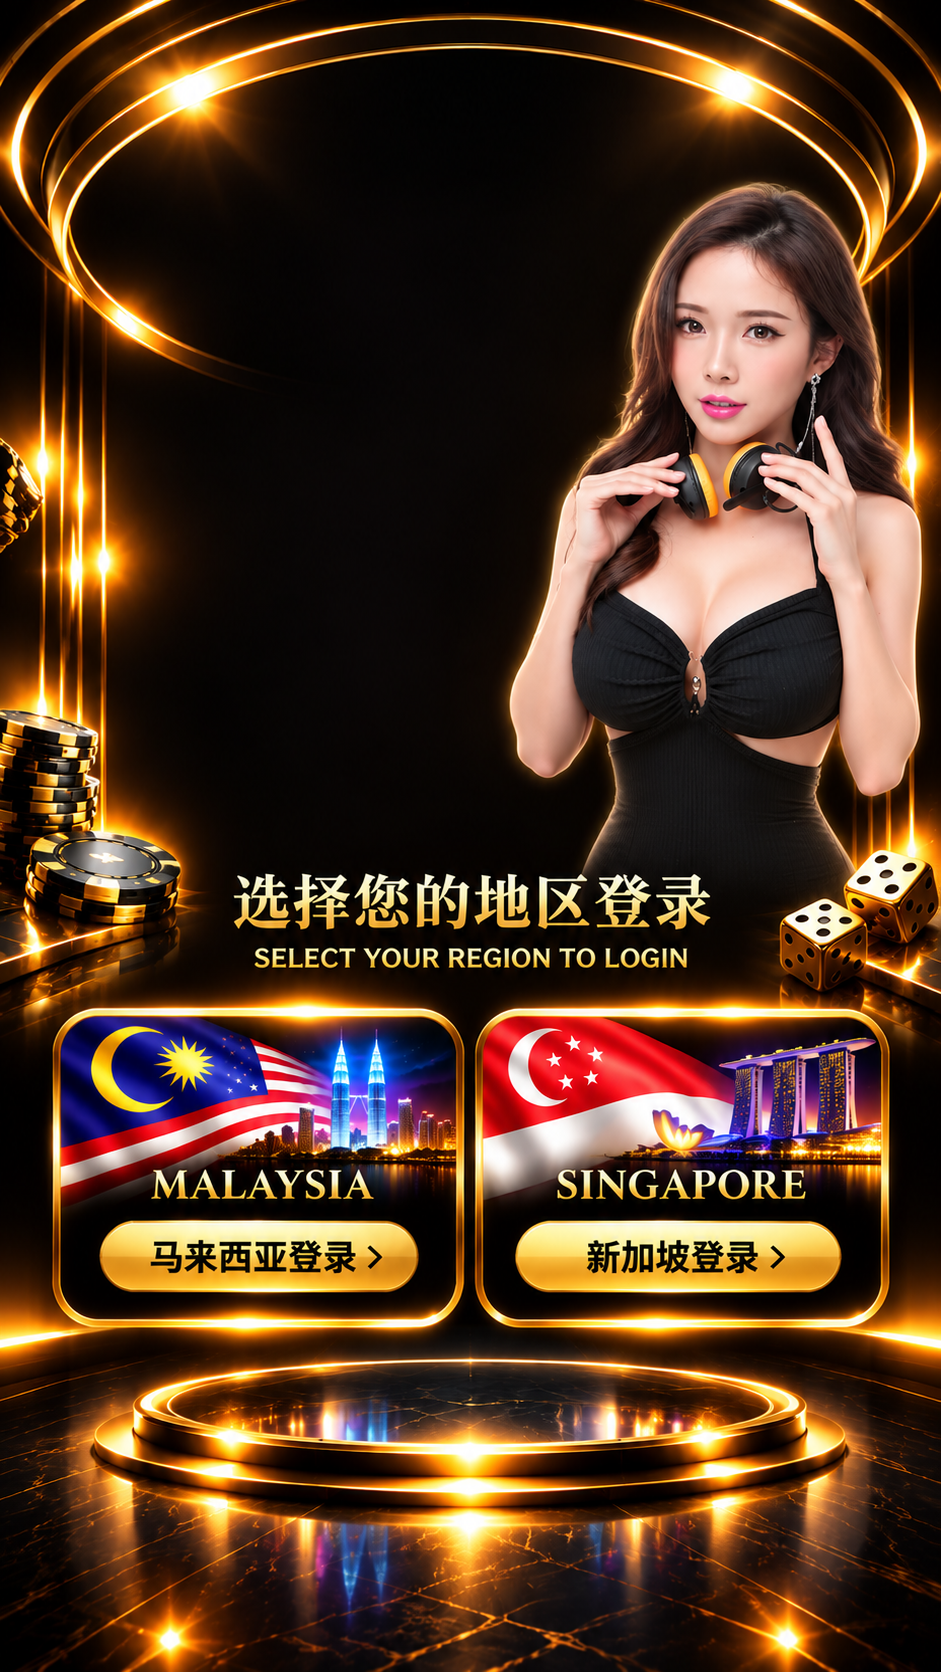
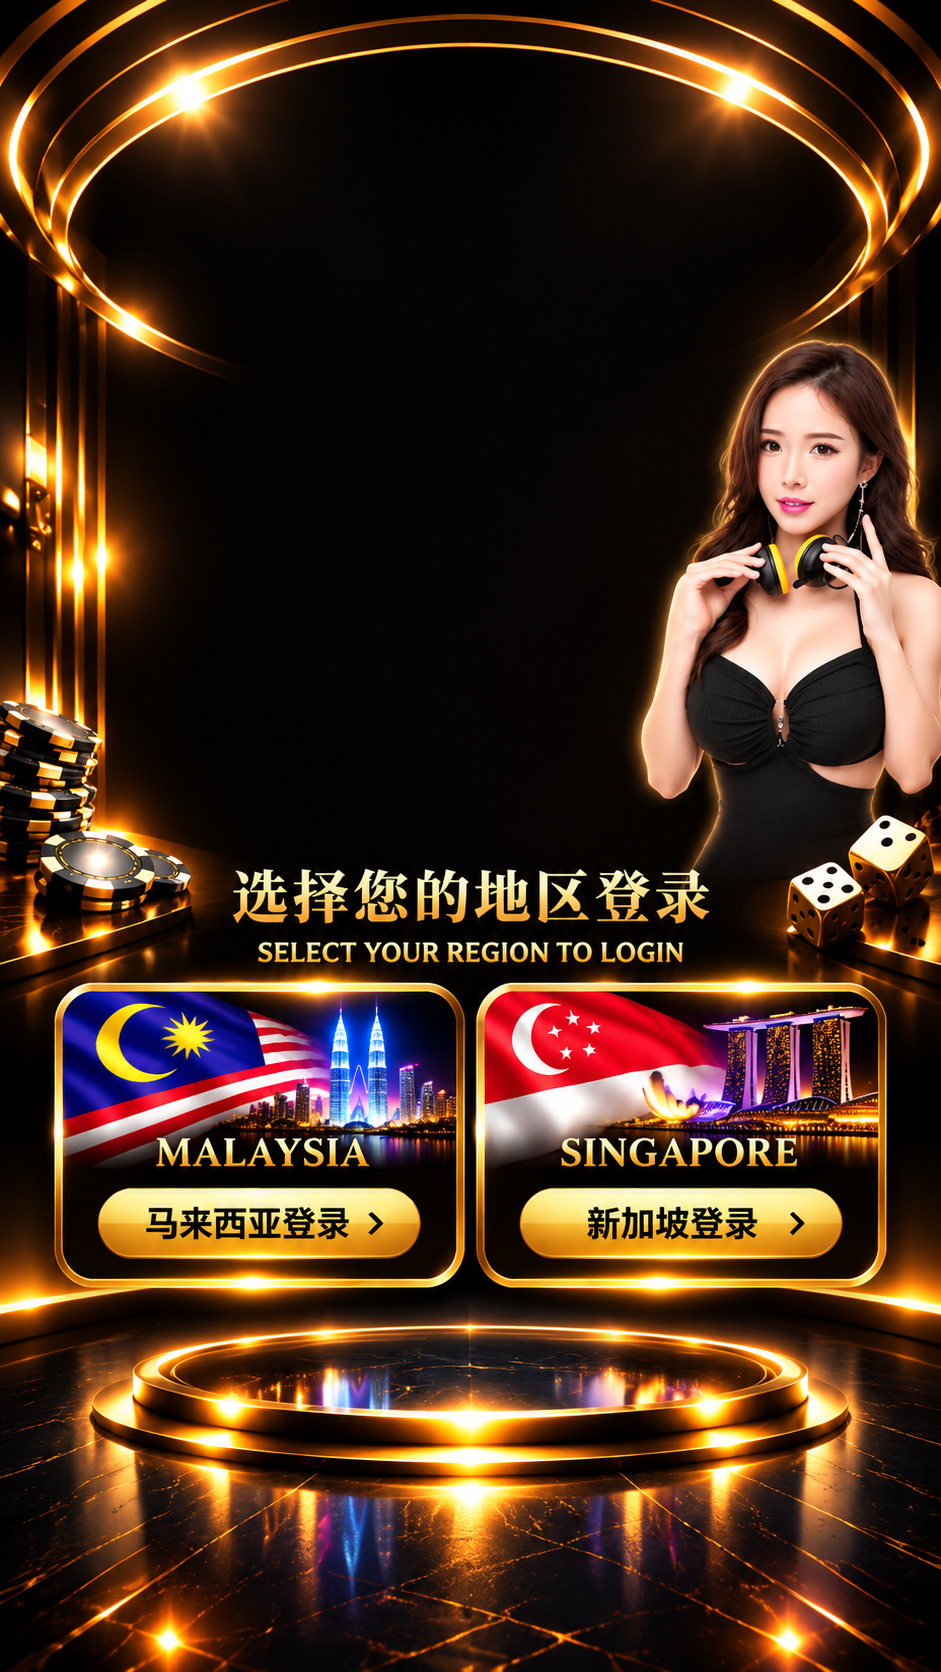
Add files via upload

diff --git a/index.html b/index.html
@@ -12,7 +12,7 @@ body{display:flex;justify-content:center;align-items:stretch;overflow:hidden}
 .poster{position:relative;width:100vw;height:100vh;height:100dvh;min-height:100svh;overflow:hidden;background:#050505;isolation:isolate}
 .poster-bg{position:absolute;inset:0;width:100%;height:100%;object-fit:fill;display:block;pointer-events:none;user-select:none}
 .video-frame{
-  position:absolute;z-index:2;left:5.0%;top:26.5%;width:44.0%;height:15.6%;
+  position:absolute;z-index:2;left:5.0%;top:13.5%;width:65.0%;height:23.0%;
   padding:4px;border:3px solid #f7bd4d;border-radius:17px;
   background:linear-gradient(145deg,#fff0a5 0%,#c77b16 24%,#ffdf75 48%,#8b4b08 72%,#ffe39a 100%);
   box-shadow:0 0 9px #ffbf45,0 0 22px #e99a24aa,inset 0 0 7px #fff2b0;
@@ -38,7 +38,7 @@ body{display:flex;justify-content:center;align-items:stretch;overflow:hidden}
 .region-link.malaysia{left:10.2%;top:72.3%;width:34.4%;height:4.3%}
 .region-link.singapore{left:55.1%;top:72.3%;width:34.4%;height:4.3%}
 .region-link:focus-visible{outline:2px solid #ffe09a;border-radius:999px}
-@media(max-width:360px){.video-frame{left:4.8%;width:44.5%;}.sound-start{gap:5px;padding:8px 7px}.sound-cn{font-size:11px}.sound-en{font-size:8px}}
+@media(max-width:360px){.video-frame{left:4.5%;top:13.5%;width:66.0%;height:23.0%;}.sound-start{gap:5px;padding:8px 7px}.sound-cn{font-size:11px}.sound-en{font-size:8px}}
 @media(min-width:900px){.poster{width:min(56.25dvh,680px);height:100dvh;min-height:100svh}}
 </style>
 </head>
